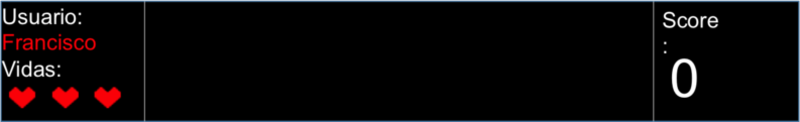
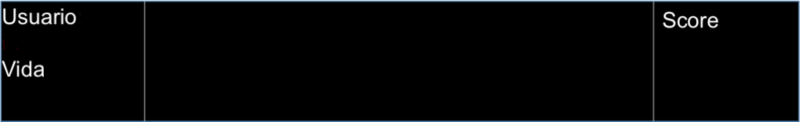
nombre de jugador en la barra

diff --git a/src/JFrameDeathRoute.java b/src/JFrameDeathRoute.java
@@ -531,6 +531,9 @@ public class JFrameDeathRoute extends JFrame implements Runnable, KeyListener, M
                         g.drawImage(cac.getImagenI(), cac.getPosX(), cac.getPosY(), this);
                     }
                     g.drawImage(bar, 0, 20, this);
+                    g.setColor(Color.white);
+                    g.setFont(new Font("default", Font.BOLD, 20));
+                    g.drawString(nombreJugador , 2, 70);
 
                     if(damageTempo<50){
                         g.drawImage(carHit, camion.getPosX(), camion.getPosY(), this);
